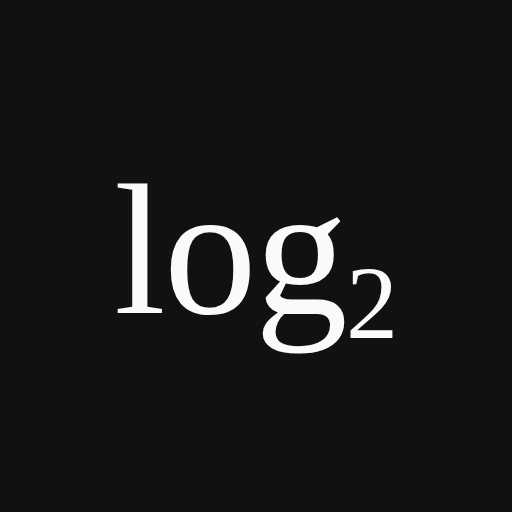
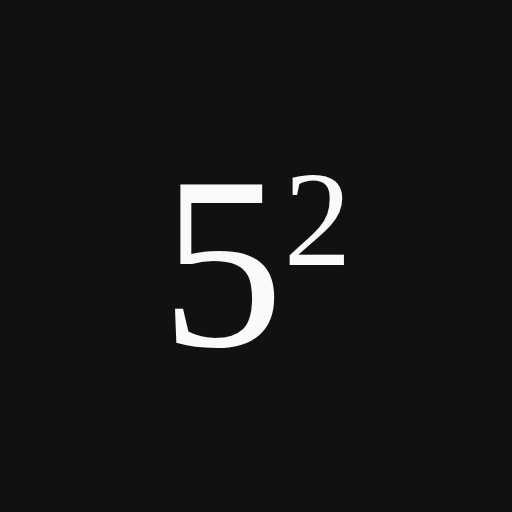
アイコンを 5² に変更（25 を指数で暗示）
指数のアプリなので、25 をそのまま書かず 5² で表す。
黒地に白の Times、上付きを流し込みに入れて左右の中心を揃えた
（絶対配置だと 5 だけが中心になり、マーク全体が右にずれていた）。

- icon-192 / icon-512 / apple-touch-icon-180 を差し替え
- マスカブル版はマークを小さめにして、対角 223px と
  安全円（直径 410px）に収まるようにした
- 角丸・円・小サイズのいずれのマスクでも成立することを確認

キャッシュ優先で配信しているため、sw.js のバージョンを v3 → v4 に
上げた。これを上げないと古いアイコンが残る。v3 から v4 への
移行（旧キャッシュの削除と新アイコンの取得）を実際に確認済み。

Claude-Session: https://claude.ai/code/session_014QrZBYCKyV7kQfrCr5yyuE

Changed region(s): [[0.2188, 0.3438, 0.7812, 0.7188]]

diff --git a/sw.js b/sw.js
@@ -5,7 +5,7 @@
    なので、ページ本体は「ネットワーク優先・失敗したらキャッシュ」、
    アイコン等の変わらないものは「キャッシュ優先・裏で更新」にしている。 */
 
-const VERSION = 'v3';                       // 中身を変えたらここを上げる
+const VERSION = 'v4';                       // 中身を変えたらここを上げる
 const CACHE   = 'explog-' + VERSION;
 
 const SHELL = [
